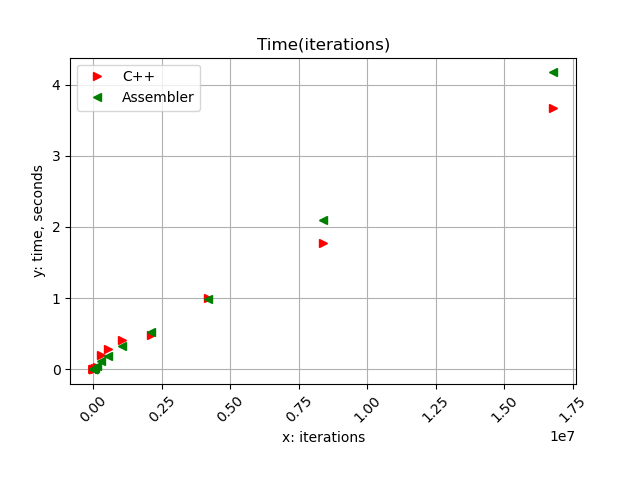
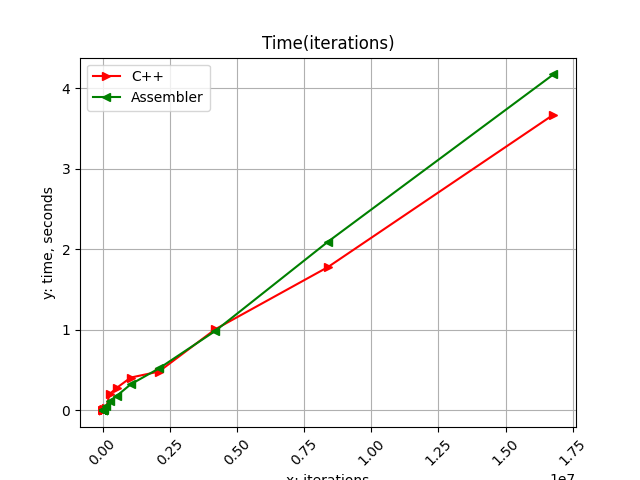
lab2/Galanin_Pavel : Updated graph on report

diff --git a/Reports/Galanin_Pavel/lab2/rep/_INCLUDES/task.tex b/Reports/Galanin_Pavel/lab2/rep/_INCLUDES/task.tex
@@ -68,6 +68,15 @@
 ]
 {../../src/option6/src/main.cpp}
 
+\begin{figure}[!htp]
+    \centering
+    \includegraphics[width=9cm]
+    {../_INCLUDES/option6.png}
+    \caption{Зависимосте времени от итерации (С++/Assembler)}
+\end{figure}
+
+\textbf{Вывод}: ассемблерная ставка медленее C++ на большом количестве итераций вызова.
+
 \newpage
 
 \begin{lstlisting}[
@@ -84,31 +93,62 @@ str = "H+l+o+ +o+l+!"
 
            1              0.000000000000        C++
            1              0.000000000000        Assembler
-          10              0.000000000000        C++
-          10              0.000000000000        Assembler
-         100              0.000000000000        C++
-         100              0.000000000000        Assembler
-        1000              0.000000000000        C++
-        1000              0.001000000000        Assembler
-       10000              0.001000000000        C++
-       10000              0.001000000000        Assembler
-      100000              0.023000000000        C++
-      100000              0.028000000000        Assembler
-     1000000              0.211000000000        C++
-     1000000              0.218000000000        Assembler
-    10000000              1.982000000000        C++
-    10000000              2.085000000000        Assembler
+           2              0.000000000000        C++
+           2              0.000000000000        Assembler
+           4              0.000000000000        C++
+           4              0.000000000000        Assembler
+           8              0.000000000000        C++
+           8              0.000000000000        Assembler
+          16              0.000000000000        C++
+          16              0.000000000000        Assembler
+          32              0.000000000000        C++
+          32              0.000000000000        Assembler
+          64              0.000000000000        C++
+          64              0.000000000000        Assembler
+         128              0.000000000000        C++
+         128              0.000000000000        Assembler
+         256              0.000000000000        C++
+         256              0.000000000000        Assembler
+         512              0.000000000000        C++
+         512              0.000000000000        Assembler
+        1024              0.000000000000        C++
+        1024              0.001000000000        Assembler
+        2048              0.001000000000        C++
+        2048              0.001000000000        Assembler
+        4096              0.001000000000        C++
+        4096              0.000000000000        Assembler
+        8192              0.002000000000        C++
+        8192              0.001000000000        Assembler
+       16384              0.003000000000        C++
+       16384              0.005000000000        Assembler
+       32768              0.001000000000        C++
+       32768              0.004000000000        Assembler
+       65536              0.014000000000        C++
+       65536              0.017000000000        Assembler
+      131072              0.029000000000        C++
+      131072              0.050000000000        Assembler
+      262144              0.203000000000        C++
+      262144              0.112000000000        Assembler
+      524288              0.279000000000        C++
+      524288              0.180000000000        Assembler
+     1048576              0.408000000000        C++
+     1048576              0.324000000000        Assembler
+     2097152              0.482000000000        C++
+     2097152              0.521000000000        Assembler
+     4194304              1.008000000000        C++
+     4194304              0.987000000000        Assembler
+     8388608              1.781000000000        C++
+     8388608              2.096000000000        Assembler
+    16777216              3.674000000000        C++
+    16777216              4.174000000000        Assembler
 \end{lstlisting}
 
-%\lstinputlisting[
-%    language=Python,
-%    basicstyle=\ttfamily\scriptsize,
-%]
-%{../../src/writeGraph/src/main.py}
+\newpage
 
-\begin{figure}[!htp]
-    \centering
-    \includegraphics[]
-    {../_INCLUDES/option6.png}
-    \caption{Зависимосте времени от итерации (С++/Assembler)}
-\end{figure}
+\paragraph{} Программа, которая рисует график
+
+\lstinputlisting[
+   language=Python,
+   basicstyle=\ttfamily\scriptsize,
+]
+{../../src/writeGraph/src/main.py}

diff --git a/Reports/Galanin_Pavel/lab2/src/writeGraph/src/main.py b/Reports/Galanin_Pavel/lab2/src/writeGraph/src/main.py
@@ -37,13 +37,13 @@ if __name__ == '__main__':
             y_asm.append(arr[i][1])
 
 
-    plt.plot(x_cpp, y_cpp, '>r', label="C++")
-    plt.plot(x_asm, y_asm, '<g', label="Assembler")
+    plt.plot(x_cpp, y_cpp, '>-r', label='C++')
+    plt.plot(x_asm, y_asm, '<-g', label='Assembler')
 
-    plt.xlabel("x: iterations")
+    plt.xlabel('x: iterations')
     plt.xticks(rotation=45)
-    plt.ylabel("y: time, seconds")
-    plt.title("Time(iterations)")
+    plt.ylabel('y: time, seconds')
+    plt.title('Time(iterations)')
     plt.legend()
     plt.grid(True)
     plt.show()
